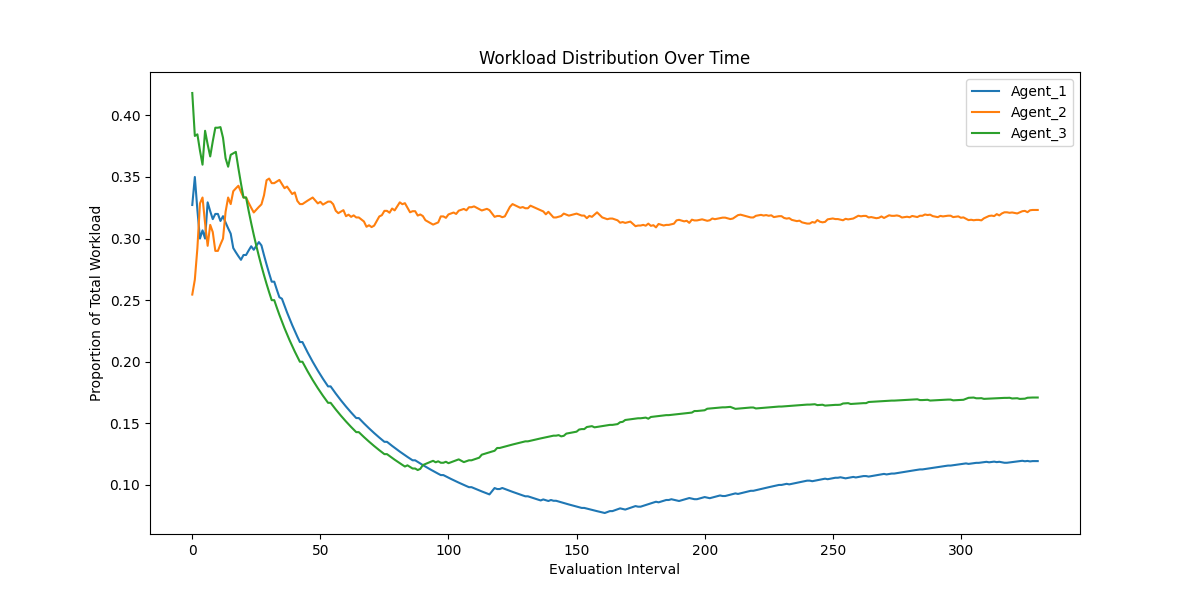
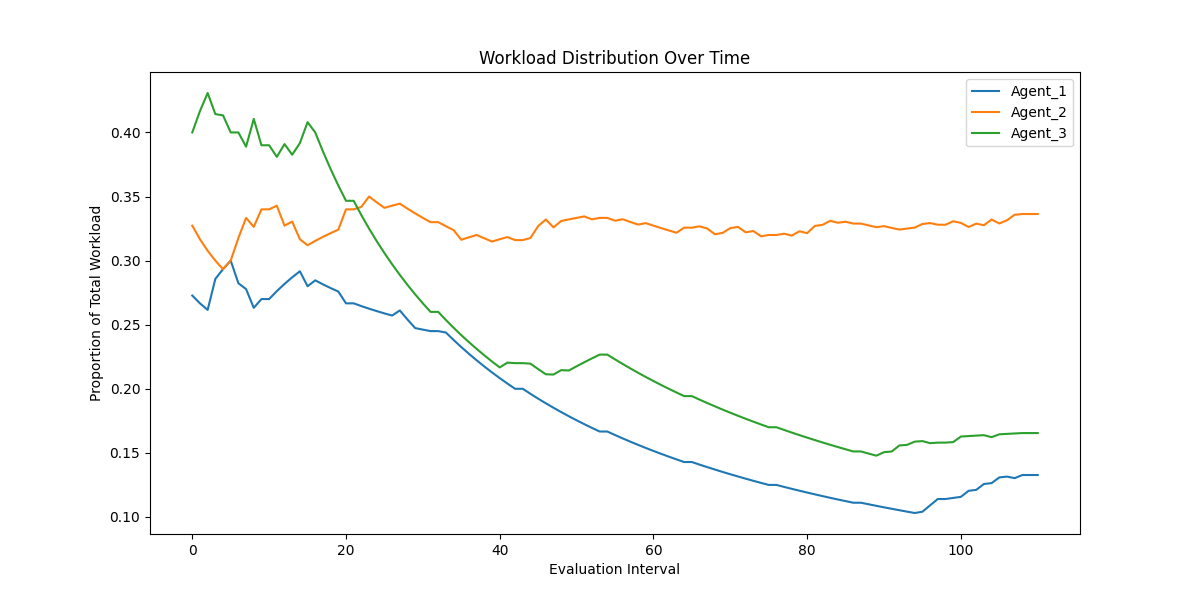
Backengine code update

diff --git a/collaborative_intelligence.py b/collaborative_intelligence.py
@@ -22,11 +22,13 @@ class Agent:
         self.creation_time = 0
         self.specialization_change_cooldown = 0
         self.total_tasks_processed = 0
+        self.specialization_strength = 1.0
+        self.knowledge_specialization = defaultdict(float)
 
     async def process_task(self, task: Task) -> Tuple[str, float]:
         processing_time = task.complexity * (1 / self.reputation)
         await asyncio.sleep(processing_time)
-        success_probability = min(1.0, self.reputation / task.complexity)
+        success_probability = min(1.0, (self.reputation * self.specialization_strength) / task.complexity)
         success = random.random() < success_probability
         result = 1.0 if success else 0.0
         self.task_history.append((task.task_id, result))
@@ -36,6 +38,9 @@ class Agent:
         
         if success:
             self.generate_knowledge(task)
+            self.update_specialization_strength(task.domain, 0.1)
+        else:
+            self.update_specialization_strength(task.domain, -0.05)
         
         return task.task_id, result
 
@@ -47,21 +52,33 @@ class Agent:
             'confidence': confidence,
             'domain': task.domain
         }
+        self.knowledge_specialization[task.domain] += 0.1
 
     def update_knowledge(self, new_knowledge: Dict[str, Any]):
         for key, value in new_knowledge.items():
             if key not in self.knowledge_base or value.get('confidence', 0) > self.knowledge_base[key].get('confidence', 0):
                 self.knowledge_base[key] = value
+                self.knowledge_specialization[value['domain']] += 0.05
 
     def decide_knowledge_to_share(self) -> Dict[str, Any]:
-        return {k: v for k, v in self.knowledge_base.items() if v.get('confidence', 0) > 0.6}
+        specialized_knowledge = {k: v for k, v in self.knowledge_base.items() 
+                                 if v.get('confidence', 0) > 0.6 and v['domain'] == self.specialization}
+        return specialized_knowledge
 
-    async def request_information(self, topic: str, mas: 'MultiAgentSystem'):
-        self.last_information_request = mas.current_time
-        return await mas.handle_information_request(self, topic)
+    def update_specialization_strength(self, domain: str, change: float):
+        if domain == self.specialization:
+            self.specialization_strength = max(0.5, min(2.0, self.specialization_strength + change))
 
-    def train_on_local_data(self, X: np.ndarray, y: np.ndarray):
-        self.model.train(X, y)
+    def get_best_specialization(self) -> str:
+        if not self.performance_by_task_type:
+            return self.specialization
+        return max(self.performance_by_task_type, key=lambda x: self.performance_by_task_type[x]['success'] / max(1, self.performance_by_task_type[x]['total']))
+
+    def get_performance_difference(self) -> float:
+        if len(self.performance_by_task_type) < 2:
+            return 0
+        performances = [perf['success'] / max(1, perf['total']) for perf in self.performance_by_task_type.values()]
+        return max(performances) - min(performances)
 
     def get_parameters(self) -> Dict[str, np.ndarray]:
         return self.model.get_parameters()
@@ -75,17 +92,6 @@ class Agent:
     def should_request_information(self, current_time: int) -> bool:
         return current_time - self.last_information_request >= 7
 
-    def get_best_specialization(self) -> str:
-        if not self.performance_by_task_type:
-            return self.specialization
-        return max(self.performance_by_task_type, key=lambda x: self.performance_by_task_type[x]['success'] / max(1, self.performance_by_task_type[x]['total']))
-
-    def get_performance_difference(self) -> float:
-        if len(self.performance_by_task_type) < 2:
-            return 0
-        performances = [perf['success'] / max(1, perf['total']) for perf in self.performance_by_task_type.values()]
-        return max(performances) - min(performances)
-
 class MultiAgentSystem:
     def __init__(self, agents: List[Agent]):
         self.agents = agents
@@ -95,6 +101,9 @@ class MultiAgentSystem:
         self.performance_history = []
         self.workload_history = []
         self.specialization_changes = []
+        self.long_term_performance = []
+        self.add_agent_threshold = 0.7
+        self.remove_agent_threshold = 0.4
         for agent in self.agents:
             agent.creation_time = self.current_time
 
@@ -111,14 +120,15 @@ class MultiAgentSystem:
 
     def _choose_agent_for_task(self, agents: List[Agent], task: Task, agent_workloads: Dict[Agent, int]) -> Agent:
         agent_scores = []
-        avg_workload = sum(agent_workloads.values()) / len(agent_workloads)
+        avg_workload = max(1, sum(agent_workloads.values()) / len(agent_workloads))  # Ensure non-zero average
         for agent in agents:
             performance_score = self._calculate_agent_performance(agent)
             workload_score = 1 / (1 + abs(agent_workloads[agent] - avg_workload))
             specialization_score = 2 if agent.specialization == task.domain else 1
             warm_up_score = min(1, (self.current_time - agent.creation_time) / 3)
-            integration_score = 2 if agent.total_tasks_processed < 50 else 1  # Boost for newer agents
-            total_score = performance_score * workload_score * specialization_score * warm_up_score * integration_score
+            integration_score = 3 if agent.total_tasks_processed < 50 else 1  # Increased boost for newer agents
+            catch_up_score = 1 + max(0, (avg_workload - agent.total_tasks_processed) / avg_workload)
+            total_score = performance_score * workload_score * specialization_score * warm_up_score * integration_score * catch_up_score
             agent_scores.append((agent, total_score))
         chosen_agent = max(agent_scores, key=lambda x: x[1])[0]
         self.log.append(f"Time {self.current_time}: Chose {chosen_agent.agent_id} for task {task.task_id}")
@@ -167,7 +177,7 @@ class MultiAgentSystem:
 
             if agent.should_request_information(self.current_time):
                 topic = self._choose_information_request_topic(agent)
-                info = await agent.request_information(topic, self)
+                info = await self.handle_information_request(agent, topic)
                 if info:
                     agent.update_knowledge({topic: info})
                     self.log.append(f"Time {self.current_time}: {agent.agent_id} received information on {topic}")
@@ -243,7 +253,7 @@ class MultiAgentSystem:
 
     def _get_workload_distribution(self):
         total_tasks = sum(agent.total_tasks_processed for agent in self.agents)
-        return {agent.agent_id: agent.total_tasks_processed / total_tasks for agent in self.agents}
+        return {agent.agent_id: agent.total_tasks_processed / max(1, total_tasks) for agent in self.agents}
 
     def _adjust_agent_specializations(self):
         for agent in self.agents:
@@ -254,12 +264,37 @@ class MultiAgentSystem:
             best_specialization = agent.get_best_specialization()
             if best_specialization != agent.specialization:
                 performance_diff = agent.get_performance_difference()
-                change_probability = min(1.0, performance_diff * 3)  # Increased change probability
+                change_probability = min(1.0, performance_diff * 5)  # Increased change probability
                 if random.random() < change_probability:
                     self.log.append(f"Time {self.current_time}: {agent.agent_id} changed specialization from {agent.specialization} to {best_specialization}")
                     self.specialization_changes.append((self.current_time, agent.agent_id, agent.specialization, best_specialization))
                     agent.specialization = best_specialization
-                    agent.specialization_change_cooldown = 5  # Reduced cooldown period
+                    agent.specialization_strength = 1.0  # Reset specialization strength
+                    agent.specialization_change_cooldown = 3  # Reduced cooldown period
+
+    def _update_performance_thresholds(self):
+        if len(self.performance_history) > 10:
+            recent_performance = self.performance_history[-10:]
+            trend = sum(recent_performance) / len(recent_performance)
+            self.add_agent_threshold = max(0.6, min(0.8, trend + 0.1))
+            self.remove_agent_threshold = max(0.3, min(0.5, trend - 0.1))
+
+    def _long_term_performance_analysis(self):
+        if len(self.performance_history) > 50:
+            long_term_avg = sum(self.performance_history[-50:]) / 50
+            self.long_term_performance.append(long_term_avg)
+            if len(self.long_term_performance) > 5:
+                trend = (self.long_term_performance[-1] - self.long_term_performance[-5]) / 5
+                if trend < -0.01:
+                    self.log.append(f"Time {self.current_time}: Long-term performance declining. Adjusting system parameters.")
+                    self._adjust_system_parameters()
+
+    def _adjust_system_parameters(self):
+        # Example adjustments based on long-term performance decline
+        for agent in self.agents:
+            agent.reputation *= 0.9  # Slightly reduce all agent reputations to encourage improvement
+        self.add_agent_threshold *= 0.95  # Make it slightly easier to add new agents
+        self.remove_agent_threshold *= 1.05  # Make it slightly harder to remove agents
 
     async def run_simulation(self, num_steps: int):
         for _ in range(num_steps):
@@ -275,10 +310,12 @@ class MultiAgentSystem:
 
             if self.current_time % 10 == 0:
                 performance = self.evaluate_system_performance()
-                if performance < 0.4 and len(self.agents) > 3:
+                self._update_performance_thresholds()
+                self._long_term_performance_analysis()
+                if performance < self.remove_agent_threshold and len(self.agents) > 3:
                     worst_agent = min(self.agents, key=lambda a: a.reputation)
                     self.remove_agent(worst_agent)
-                elif performance > 0.7 and len(self.agents) < 10:
+                elif performance > self.add_agent_threshold and len(self.agents) < 10:
                     new_agent = Agent(f"Agent_{len(self.agents)+1}", random.choice(['classification', 'regression', 'clustering']), random.choice(['classification', 'regression', 'clustering']))
                     self.add_agent(new_agent)
 
@@ -295,3 +332,6 @@ class MultiAgentSystem:
 
     def get_specialization_changes(self):
         return self.specialization_changes
+
+    def get_long_term_performance(self):
+        return self.long_term_performance

diff --git a/test_enhanced_collaborative_intelligence.py b/test_enhanced_collaborative_intelligence.py
@@ -28,9 +28,9 @@ async def test_enhanced_collaborative_intelligence():
         print(f"{agent.agent_id} reputation: {agent.reputation:.2f}")
 
     print("\n2. Extended Simulation:")
-    num_steps = 300  # Increased simulation steps
+    num_steps = 100  # Reduced simulation steps
     for step in range(num_steps):
-        if step % 50 == 0:
+        if step % 10 == 0:
             print(f"Step {step}/{num_steps}")
         await mas.run_simulation(1)
     final_performance = mas.evaluate_system_performance()
@@ -41,11 +41,13 @@ async def test_enhanced_collaborative_intelligence():
     print("\n3. Agent Specializations:")
     for agent in mas.agents:
         print(f"{agent.agent_id} final specialization: {agent.specialization}")
+        print(f"  Specialization strength: {agent.specialization_strength:.2f}")
 
     print("\n4. Knowledge Sharing Statistics:")
     for agent in mas.agents:
         print(f"{agent.agent_id} knowledge base size: {len(agent.knowledge_base)}")
-        print(f"  Knowledge topics: {list(agent.knowledge_base.keys())[:5]}...")  # Show first 5 topics
+        print(f"  Knowledge specialization: {dict(agent.knowledge_specialization)}")
+        print(f"  Top 5 knowledge topics: {list(agent.knowledge_base.keys())[:5]}")
 
     print("\n5. Task Performance by Type:")
     for agent in mas.agents:
@@ -80,7 +82,7 @@ async def test_enhanced_collaborative_intelligence():
     workload_history = mas.get_workload_history()
     plt.figure(figsize=(12, 6))
     for agent_id in workload_history[0].keys():
-        agent_workload = [wl[agent_id] for wl in workload_history]
+        agent_workload = [wl[agent_id] for wl in workload_history if agent_id in wl]
         plt.plot(agent_workload, label=agent_id)
     plt.title("Workload Distribution Over Time")
     plt.xlabel("Evaluation Interval")
@@ -95,6 +97,20 @@ async def test_enhanced_collaborative_intelligence():
     print("Last 10 specialization changes:")
     for change in specialization_changes[-10:]:
         print(f"Time {change[0]}: {change[1]} changed from {change[2]} to {change[3]}")
+
+    print("\n11. Long-term Performance Analysis:")
+    long_term_performance = mas.get_long_term_performance()
+    plt.figure(figsize=(10, 6))
+    plt.plot(long_term_performance)
+    plt.title("Long-term System Performance")
+    plt.xlabel("Analysis Interval")
+    plt.ylabel("Average Performance")
+    plt.savefig("long_term_performance.png")
+    print("Long-term performance graph saved as 'long_term_performance.png'")
+
+    print("\n12. Final Performance Thresholds:")
+    print(f"Add agent threshold: {mas.add_agent_threshold:.2f}")
+    print(f"Remove agent threshold: {mas.remove_agent_threshold:.2f}")
 
     print("\nEnhanced Collaborative Intelligence test completed successfully!")
 
